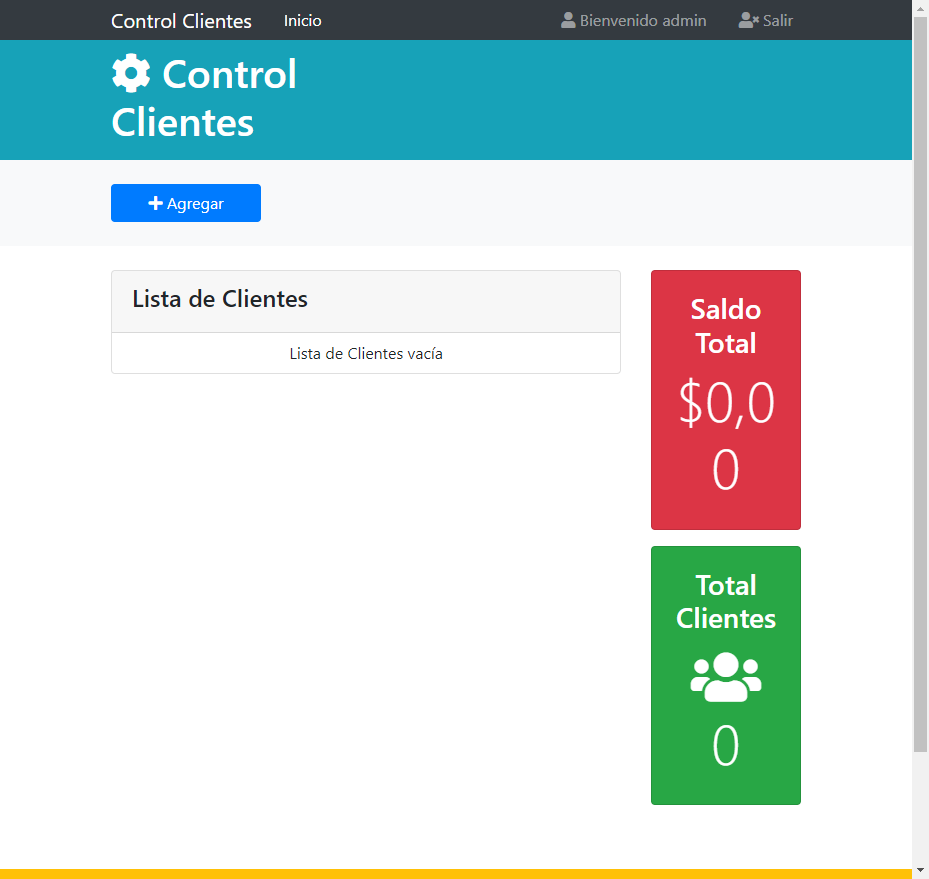
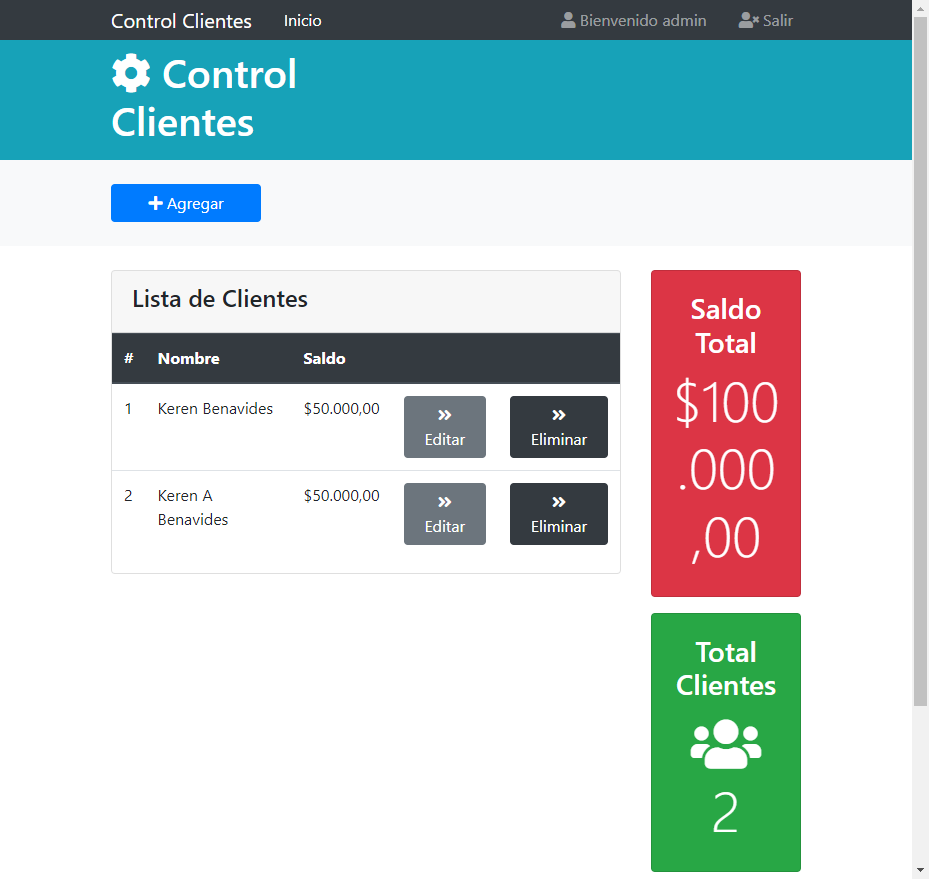
Se realiza pruebas de agregar

diff --git a/src/main/resources/templates/layout/agregarCliente.html b/src/main/resources/templates/layout/agregarCliente.html
@@ -8,15 +8,6 @@
     </head>
     <body>
         <section th:fragment="agregarCliente">
-            <div id="agregarCliente" class="modal fade">
-                <div class="modal-dialog modal-lg">
-                    <div class="modal-content">
-                        <div class="modal-header bg-info text-white">
-                            <h5 class="modal-title" th:text="#{accion.agregar}">Agregar Cliente</h5>
-                            <button class="close" data-dismiss="modal">
-                                <span>&times;</span>
-                            </button>
-                        </div> 
                         <form th:action="@{/guardar}" th:object="${persona}"
                               method="POST" class="was-validated">
                             <div class="modal-body">
@@ -45,9 +36,6 @@
                                 <button class="btn btn-primary" type="submit" id="btnGuardar" th:text="#{accion.guardar}">Guardar</button>
                             </div>
                         </form>
-                    </div>
-                </div>
-            </div>
         </section>
 
     </body>

diff --git a/target/classes/templates/layout/agregarCliente.html b/target/classes/templates/layout/agregarCliente.html
@@ -8,15 +8,6 @@
     </head>
     <body>
         <section th:fragment="agregarCliente">
-            <div id="agregarCliente" class="modal fade">
-                <div class="modal-dialog modal-lg">
-                    <div class="modal-content">
-                        <div class="modal-header bg-info text-white">
-                            <h5 class="modal-title" th:text="#{accion.agregar}">Agregar Cliente</h5>
-                            <button class="close" data-dismiss="modal">
-                                <span>&times;</span>
-                            </button>
-                        </div> 
                         <form th:action="@{/guardar}" th:object="${persona}"
                               method="POST" class="was-validated">
                             <div class="modal-body">
@@ -45,9 +36,6 @@
                                 <button class="btn btn-primary" type="submit" id="btnGuardar" th:text="#{accion.guardar}">Guardar</button>
                             </div>
                         </form>
-                    </div>
-                </div>
-            </div>
         </section>
 
     </body>

diff --git a/src/main/resources/templates/layout/botonesAgregar.html b/src/main/resources/templates/layout/botonesAgregar.html
@@ -11,8 +11,7 @@
             <div class="container">
                 <div class="row">
                     <div class="col-md-3" sec:authorize="hasRole('ROLE_ADMIN')">
-                        <a href="#" class="btn btn-primary btn-block" id="btnAgregar"
-                            data-toggle="modal" data-target="#agregarCliente">
+                        <a th:href="@{/agregar}" class="btn btn-primary btn-block" id="btnAgregar">
                             <i class="fas fa-plus"></i> [[#{accion.agregar}]]
                         </a>
                     </div>

diff --git a/target/classes/templates/layout/botonesAgregar.html b/target/classes/templates/layout/botonesAgregar.html
@@ -11,8 +11,7 @@
             <div class="container">
                 <div class="row">
                     <div class="col-md-3" sec:authorize="hasRole('ROLE_ADMIN')">
-                        <a href="#" class="btn btn-primary btn-block" id="btnAgregar"
-                            data-toggle="modal" data-target="#agregarCliente">
+                        <a th:href="@{/agregar}" class="btn btn-primary btn-block" id="btnAgregar">
                             <i class="fas fa-plus"></i> [[#{accion.agregar}]]
                         </a>
                     </div>

diff --git a/src/main/resources/templates/index.html b/src/main/resources/templates/index.html
@@ -9,7 +9,6 @@
 
         <header th:replace="layout/plantilla :: header"></header>
         <section th:replace="layout/botonesAgregar :: botonesAgregar"></section>
-        <section th:replace="layout/agregarCliente :: agregarCliente"></section>
         <section th:replace="layout/listadoClientes :: listadoClientes"></section>
         <footer th:replace="layout/plantilla :: footer"></footer>
     </body>

diff --git a/target/classes/templates/index.html b/target/classes/templates/index.html
@@ -9,7 +9,6 @@
 
         <header th:replace="layout/plantilla :: header"></header>
         <section th:replace="layout/botonesAgregar :: botonesAgregar"></section>
-        <section th:replace="layout/agregarCliente :: agregarCliente"></section>
         <section th:replace="layout/listadoClientes :: listadoClientes"></section>
         <footer th:replace="layout/plantilla :: footer"></footer>
     </body>

diff --git a/src/test/java/co/edu/univalle/HolaSpringApplicationTests.java b/src/test/java/co/edu/univalle/HolaSpringApplicationTests.java
@@ -26,13 +26,13 @@ public class HolaSpringApplicationTests {
 		driver = new ChromeDriver();
 	}
 
-	@AfterClass
+	/*@AfterClass
 	public static void cerrarTest(){
 		driver.quit();
-	}
+	}*/
 
 	@Test
-	public void pruebasDeFuncionalidad(){
+	public void pruebasDeFuncionalidad() throws InterruptedException {
 		WebElement element;
 		String title, currentUrl;
 		WebDriverWait wait = new WebDriverWait(driver, 20);
@@ -84,21 +84,25 @@ public class HolaSpringApplicationTests {
 		element = driver.findElement(By.id("btnAgregar"));
 		element.click();
 
-		element = driver.findElement(By.id("nombre"));
-		//element.clear();
+		element = driver.findElement(By.name("nombre"));
+		element.clear();
 		element.sendKeys("Keren");
 
 		element = driver.findElement(By.name("apellido"));
-		//element.clear();
+		element.clear();
 		element.sendKeys("Benavides");
 
 		element = driver.findElement(By.name("email"));
-		//element.clear();
+		element.clear();
 		element.sendKeys("keren.benavides@correounivalle.edu.co");
 
 		element = driver.findElement(By.name("telefono"));
-		//element.clear();
+		element.clear();
 		element.sendKeys("3164183181");
+
+		element = driver.findElement(By.name("saldo"));
+		element.clear();
+		element.sendKeys("50000");
 
 		src = ts.getScreenshotAs(OutputType.FILE);
 		dst = new File(".\\src\\main\\resources\\imagenesselenium\\imagenAgregar.png");
